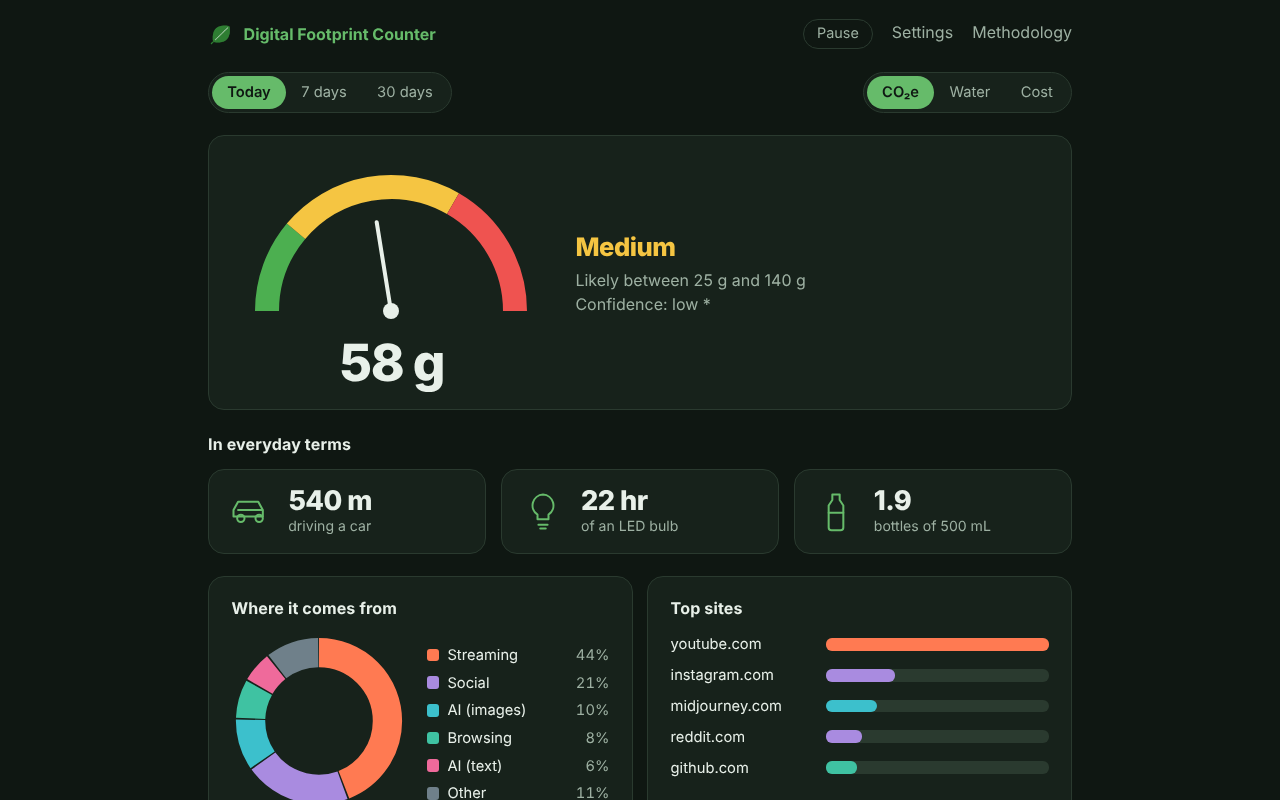
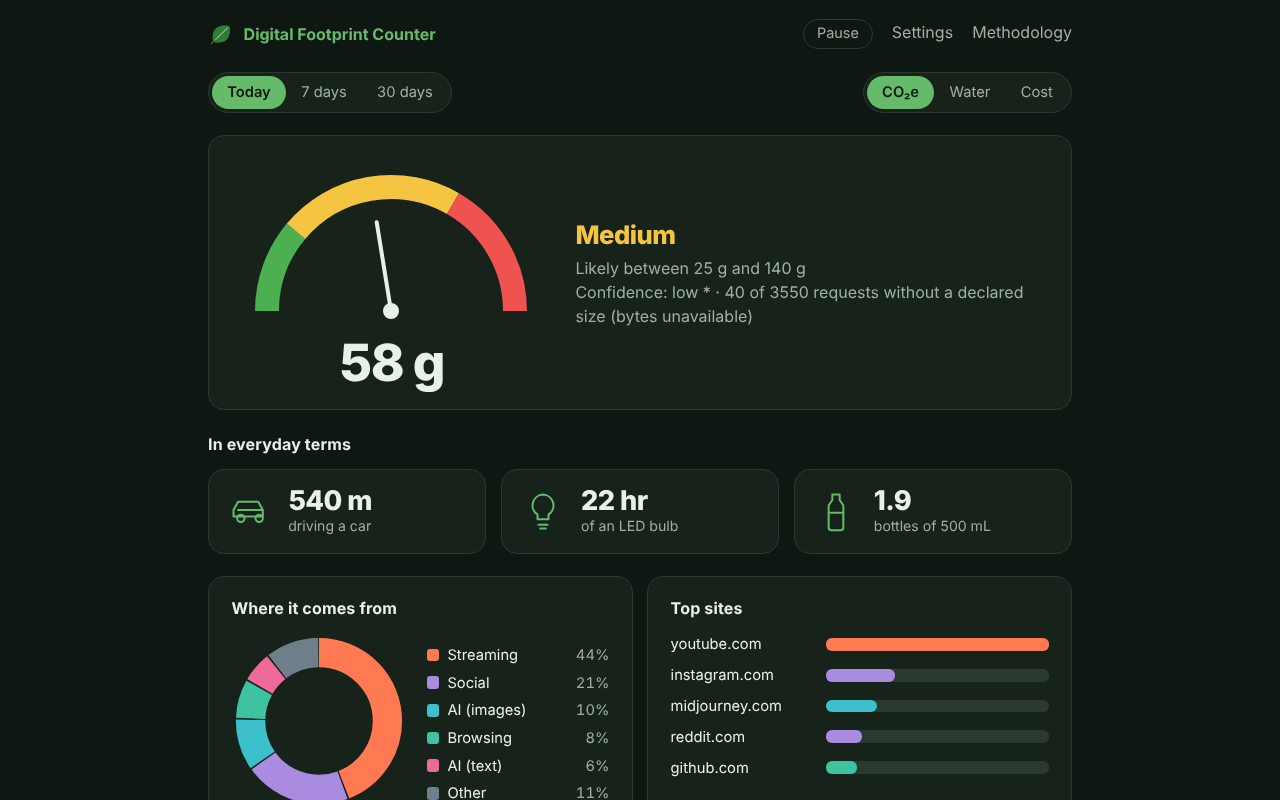
Contatore delle richieste non attribuibili a una scheda (lavoratori in background), nei dettagli della dashboard e nel CSV
Claude-Session: https://claude.ai/code/session_01FMdp5T99h9ndXsWj19GVp4

Changed region(s): [[0.4375, 0.2812, 0.8125, 0.4062]]

diff --git a/src/background.js b/src/background.js
@@ -149,8 +149,21 @@ api.runtime.onMessage.addListener((msg, sender, sendResponse) => {
   return false;
 });
 
+/**
+ * Richieste che il browser non attribuisce a una scheda (tabId < 0: lavoratori in background come i service worker).
+ * Non entrano nella stima: si contano solo, per sito, per vedere quanto traffico sfugge. Si considera solo l'origine
+ * (dominio) di un sito aperto in una scheda non privata; il resto (browser, estensioni, siti chiusi) si ignora.
+ */
+function countUnattributed(d) {
+  const host = hostFromUrl(d.initiator ?? d.originUrl ?? d.documentUrl ?? '');
+  if (!cfgReady || !host || !allowed(host) || ![...tabHost.values()].includes(host)) return;
+  addSample(pending, dayKey(), host, { ua: 1, ub: contentLength(d.responseHeaders) });
+  scheduleFlush();
+}
+
 api.webRequest.onCompleted.addListener((d) => {
-  if (d.tabId < 0 || privateTabs.has(d.tabId)) return; // richieste del browser/estensioni e finestre private: ignorate
+  if (d.tabId < 0) return countUnattributed(d);
+  if (privateTabs.has(d.tabId)) return; // finestre private: ignorate
   diagCapture(d);
   countPrompt(d);
   const bytes = contentLength(d.responseHeaders);
@@ -309,7 +322,6 @@ function scheduleLive() {
     liveTimer = null;
     accrue();
     loadCfg().then(() => refreshBadge()).catch(() => {});
-api.tabs.query({}).then((tabs) => tabs.forEach((t) => t.incognito && privateTabs.add(t.id))).catch(() => {});
   }, LIVE_MS);
 }
 
@@ -371,4 +383,7 @@ ready = (async () => {
   await refreshActiveNow();
 })();
 loadCfg().then(() => refreshBadge()).catch(() => {});
-api.tabs.query({}).then((tabs) => tabs.forEach((t) => t.incognito && privateTabs.add(t.id))).catch(() => {});
+api.tabs.query({}).then((tabs) => tabs.forEach((t) => {
+  if (t.incognito) privateTabs.add(t.id);
+  else if (!tabHost.has(t.id)) tabHost.set(t.id, hostFromUrl(t.url)); // siti già aperti: servono ad attribuire i lavoratori in background
+})).catch(() => {});

diff --git a/src/core.js b/src/core.js
@@ -39,6 +39,9 @@ export function addSample(stats, day, host, delta) {
   // Campi facoltativi del conteggio AI (solo numeri): p = messaggi inviati, msc = tempo coperto dal conteggio.
   if (delta.p) e.p = (e.p ?? 0) + delta.p;
   if (delta.msc) e.msc = (e.msc ?? 0) + delta.msc;
+  // ua/ub = richieste (e byte dichiarati) di lavoratori in background di un sito aperto, non attribuibili a una scheda.
+  if (delta.ua) e.ua = (e.ua ?? 0) + delta.ua;
+  if (delta.ub) e.ub = (e.ub ?? 0) + delta.ub;
   // nu = richieste completate senza dimensione dichiarata (dato non disponibile, non zero byte).
   if (delta.nu) e.nu = (e.nu ?? 0) + delta.nu;
 }
@@ -173,11 +176,11 @@ export function purgeHosts(record, list) {
 /** CSV leggibile di tutto ciò che è memorizzato: ogni campo di ogni dominio e giorno, con le versioni del modello. */
 export function csvFromDays(days, metas = {}) {
   const q = (v) => `"${String(v).replace(/"/g, '""')}"`;
-  const rows = ['day,domain,requests,bytes,requests_without_size,active_seconds,ai_messages,ai_counted_seconds,model_version,coefficient_version'];
+  const rows = ['day,domain,requests,bytes,requests_without_size,unattributed_requests,unattributed_bytes,active_seconds,ai_messages,ai_counted_seconds,model_version,coefficient_version'];
   for (const day of Object.keys(days).sort()) {
     const m = metas[day] ?? {};
     for (const [host, e] of Object.entries(days[day]).sort()) {
-      rows.push([day, q(host), e.n, e.b, e.nu ?? 0, Math.round(e.ms / 1000), e.p ?? 0, Math.round((e.msc ?? 0) / 1000), q((m.m ?? []).join(' ')), q((m.c ?? []).join(' '))].join(','));
+      rows.push([day, q(host), e.n, e.b, e.nu ?? 0, e.ua ?? 0, e.ub ?? 0, Math.round(e.ms / 1000), e.p ?? 0, Math.round((e.msc ?? 0) / 1000), q((m.m ?? []).join(' ')), q((m.c ?? []).join(' '))].join(','));
     }
   }
   return `${rows.join('\n')}\n`;

diff --git a/tests/core.test.js b/tests/core.test.js
@@ -126,7 +126,7 @@ test('isExcluded: dominio e sottodomini, non omonimi parziali', () => {
 test('purgeHosts e csvFromDays', () => {
   const rec = { 'banca.it': { n: 1, b: 2, ms: 3000 }, 'app.banca.it': { n: 1, b: 1, ms: 1 }, 'a.com': { n: 4, b: 5, ms: 6000 } };
   assert.deepEqual(Object.keys(purgeHosts(rec, ['banca.it'])), ['a.com']);
-  assert.equal(csvFromDays({ '2026-11-09': { 'a.com': { n: 4, b: 5, ms: 6000 } } }), 'day,domain,requests,bytes,requests_without_size,active_seconds,ai_messages,ai_counted_seconds,model_version,coefficient_version\n2026-11-09,"a.com",4,5,0,6,0,0,"",""\n');
+  assert.equal(csvFromDays({ '2026-11-09': { 'a.com': { n: 4, b: 5, ms: 6000 } } }), 'day,domain,requests,bytes,requests_without_size,unattributed_requests,unattributed_bytes,active_seconds,ai_messages,ai_counted_seconds,model_version,coefficient_version\n2026-11-09,"a.com",4,5,0,0,0,6,0,0,"",""\n');
 });
 
 import { matchAdapter, stripAiFields, maskPath } from '../src/core.js';
@@ -151,7 +151,8 @@ test('addSample con conteggio AI e stripAiFields', () => {
   addSample(m, 'd', 'chatgpt.com', { p: 2 });
   assert.deepEqual(m.d['chatgpt.com'], { n: 0, b: 0, ms: 60000, p: 2, msc: 60000 });
   const m2 = {};
-  addSample(m2, 'd', 'a.com', { n: 3, nu: 2 });
+  addSample(m2, 'd', 'a.com', { n: 3, nu: 2, ua: 4, ub: 100 });
+  assert.deepEqual([m2.d['a.com'].ua, m2.d['a.com'].ub], [4, 100]);
   assert.equal(m2.d['a.com'].nu, 2);
   assert.deepEqual(stripAiFields(m.d), { 'chatgpt.com': { n: 0, b: 0, ms: 60000 } });
 });

diff --git a/dashboard/dashboard.js b/dashboard/dashboard.js
@@ -165,6 +165,9 @@ function renderDetails() {
   const body = $('sites').tBodies[0];
   body.replaceChildren();
   const a = analysePeriod(state.period);
+  const ua = a.rows.reduce((s, r) => s + (r.e.ua ?? 0), 0), ub = a.rows.reduce((s, r) => s + (r.e.ub ?? 0), 0);
+  $('unattr').hidden = ua === 0;
+  $('unattr').textContent = ua ? t('dash.unattr', { n: new Intl.NumberFormat(lang).format(ua), size: formatBytes(ub) }) : '';
   for (const r of [...a.rows].sort((x, y) => y.est.wh.mid - x.est.wh.mid).slice(0, 20)) {
     const tr = body.insertRow();
     cell(tr, r.host, '', false);
@@ -172,7 +175,7 @@ function renderDetails() {
     cell(tr, new Intl.NumberFormat(lang).format(r.e.n));
     cell(tr, r.e.p ? new Intl.NumberFormat(lang).format(r.e.p) : '–');
     cell(tr, `${new Intl.NumberFormat(lang).format(Math.round(r.e.ms / 60000))} min`);
-    cell(tr, formatBytes(r.e.b), r.e.u ? t('brk.unsized', { n: r.e.u }) : '');
+    cell(tr, formatBytes(r.e.b), [r.e.nu ? t('brk.unsized', { n: r.e.nu }) : '', r.e.ua ? t('brk.unattr', { n: r.e.ua, size: formatBytes(r.e.ub ?? 0) }) : ''].filter(Boolean).join('\n'));
     metricCells(tr, r.est);
   }
 }

diff --git a/dashboard/dashboard.html b/dashboard/dashboard.html
@@ -66,6 +66,7 @@
           <th data-i18n="col.domain"></th><th data-i18n="col.category"></th><th data-i18n="col.ops"></th><th data-i18n="col.prompts"></th><th data-i18n="col.time"></th><th data-i18n="col.data"></th>
           <th data-i18n="col.energy"></th><th data-i18n="col.co2e"></th><th data-i18n="col.water"></th><th data-i18n="col.cost"></th><th data-i18n="col.reliability"></th>
         </tr></thead><tbody></tbody></table></div>
+        <p id="unattr" class="note small" hidden></p>
       </details>
     </div>
 

diff --git a/devplan.md b/devplan.md
@@ -15,6 +15,7 @@ Principi: nessun server, nessuna telemetria, nessun content script; meglio un in
 - [x] 2. Versionamento del modello per giorno (`model_version`, `coefficient_version`, colonne CSV). Aumentare `MODEL_VERSION` in `src/engine.js` quando cambiano le formule
 - [x] 2b. Stima dei byte per le richieste senza dimensione dichiarata (`nu`): dimensione media assunta di 30 KB (10–100 KB, ipotesi dichiarata in `data/coefficients.json`), così i siti che non dichiarano la dimensione non risultano quasi gratuiti. `MODEL_VERSION` 3. Dettagli della dashboard con tempo attivo, dati e ripartizione dispositivo/rete/data center
 - [x] 2c. Tempo attivo perso quando il browser sospende il service worker (scoperto dai dati reali: 0 s per Gmail e ChatGPT). Stato in `storage.session`, assenza dopo 5 minuti, `MODEL_VERSION` 4, prova `scripts/e2e-active-time.cjs` (senza la correzione 20 s su 130, con la correzione 117 s)
+- [x] 2d. Contatore delle richieste non attribuibili a una scheda (lavoratori in background, `ua`/`ub`): solo conteggio, non entra nella stima; visibile nei dettagli della dashboard e nel CSV. Prova `scripts/e2e-unattributed.cjs`. Da valutare con dati reali (YouTube) se includerle nella stima
 - [ ] 3. Verifica degli adattatori AI con traffico reale: **ChatGPT fatto (11/11/2026)**; mancano Perplexity, Claude, Gemini, DeepSeek e aggiornamento `status` in `data/ai_adapters.json`. Lavoro manuale
 - [ ] 4. Test su Firefox reale (`webRequest`, `idle`, permessi all'installazione)
 - [ ] 5. Documenti minimi: `ARCHITECTURE.md`, `CHANGELOG.md`, `CONTRIBUTING.md`

diff --git a/PRIVACY.md b/PRIVACY.md
@@ -4,6 +4,7 @@ Digital Footprint Counter works entirely on your device.
 
 **What it stores (locally, in the browser's extension storage)**
 - For each day and each website domain: number of requests, bytes transferred (when the server declares them) and active time.
+- For each day and domain, also: the number of requests that could not be attributed to a tab (background workers of a site you have open, such as service workers) and their declared size. Only counters, never what they contain, and only for sites open in a non-private tab.
 - Your settings (region, language, device, metric, thresholds).
 - In the browser's temporary memory (not on disk, cleared when the browser closes): the domain of the active tab and a timestamp, to keep counting active time while the browser puts the extension to sleep.
 - Only if you turn it on for a service (off by default): the number of messages you send to that AI service per day, and the time covered by that counting. Never what you write or what it answers.
